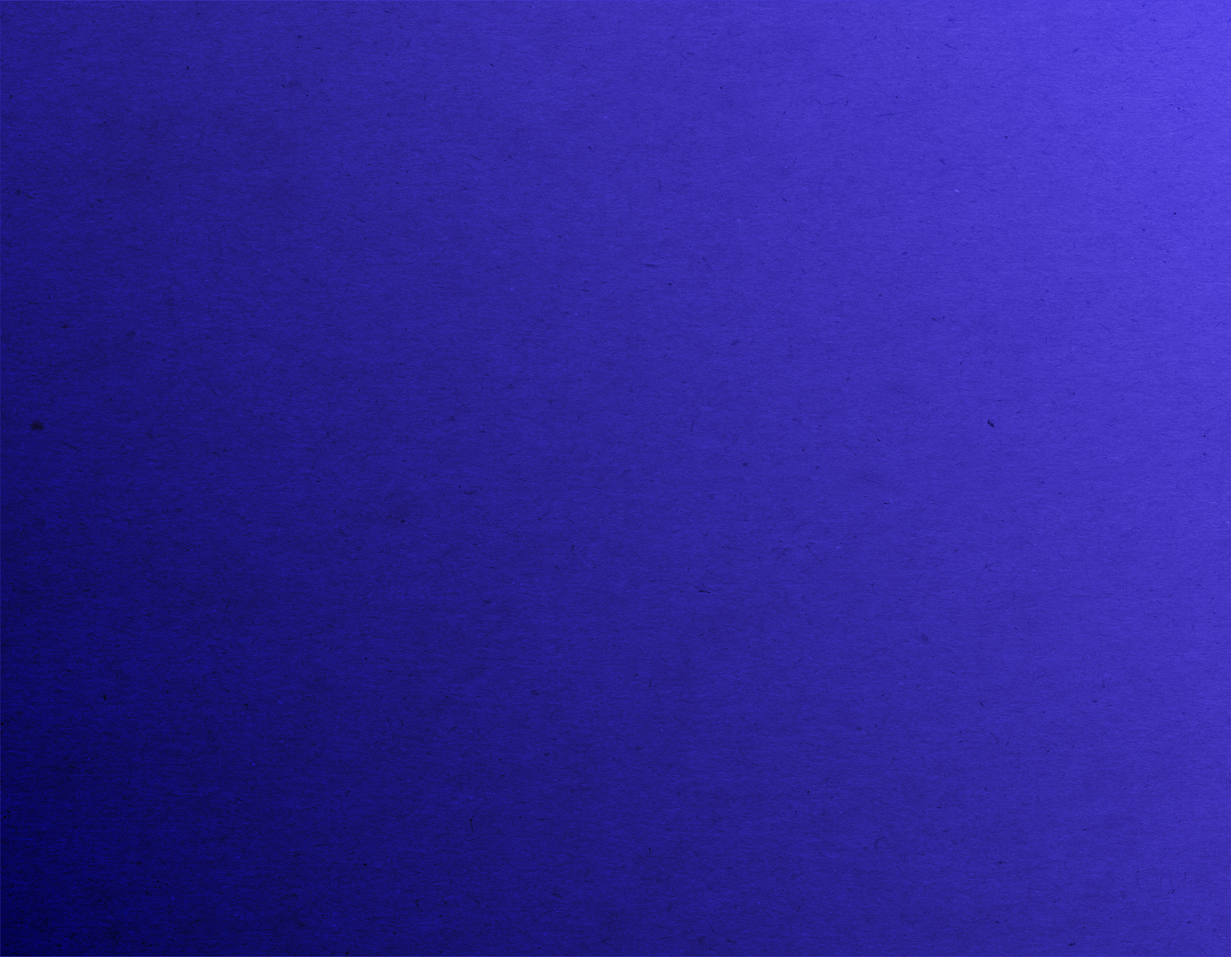
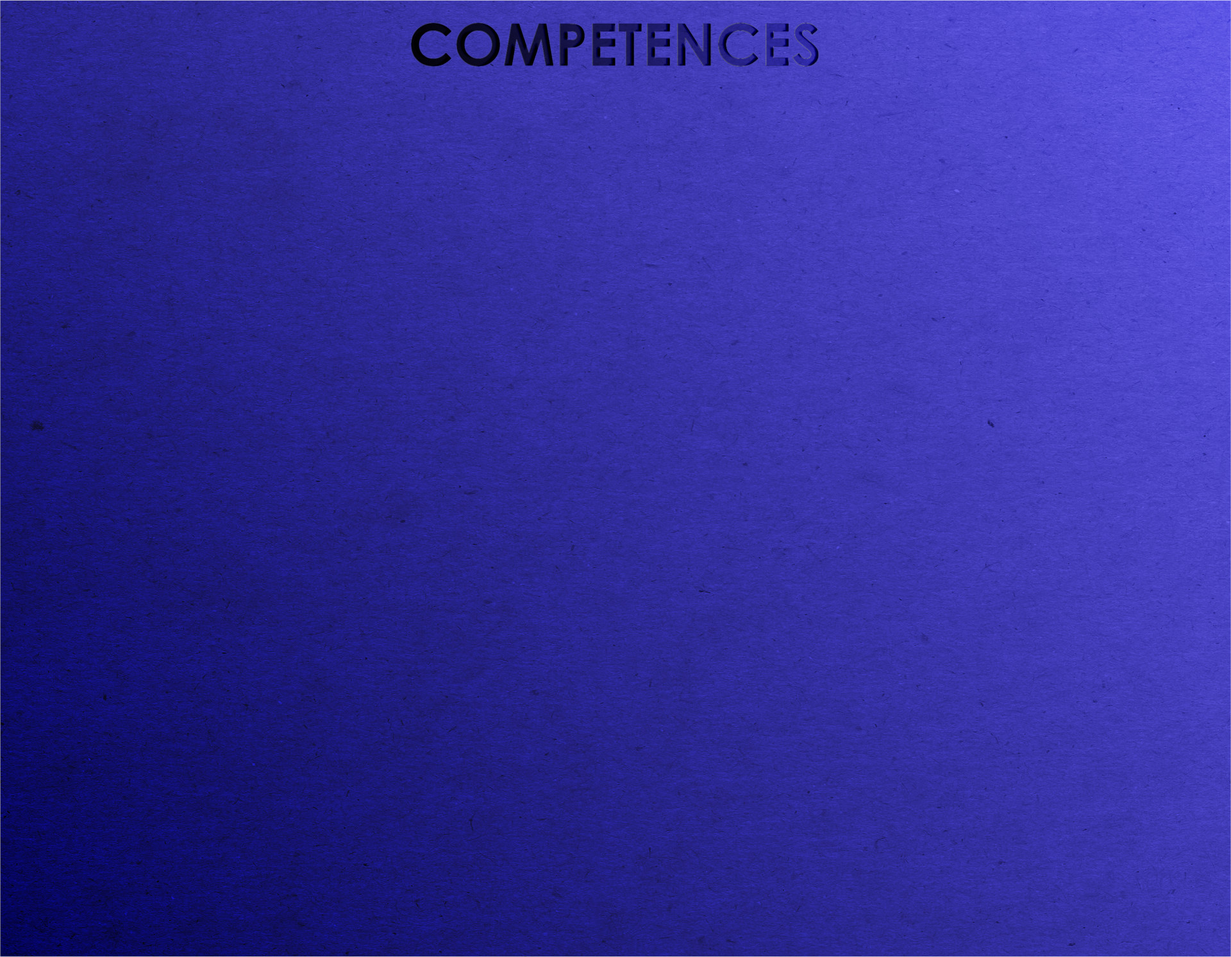
ajustement de la partie compétences ; ajout des vrais vidéos dans la partie vidéos

Changed region(s): [[0.3125, 0.0, 0.6875, 0.0925]]

diff --git a/index.html b/index.html
@@ -59,51 +59,52 @@
   </section>
 
   <section class="bloc" id="quisuisje">
-    <div id="container1">
-      <div>
-        <h2>Audiovisuel</h2>
-        <p>
-          Passionné par la vidéo depuis jeune, j’ai toujours aimé réaliser de petites vidéos pour moi ou
-          même pour des associations. Le DUT MMI m’a permis d’acquérir davantage de
-          connaissances et de technique dans ce milieu. La prise de vidéos, la prise de son et le
-          montage sont des domaines que je pratique. Avec le logiciel Sony Vegas Pro puis Première
-          Pro j’ai pu réaliser différents projets comme des teaser, reportages ainsi que des courts
-          métrages.
-        </p>
+    <div id="mainContainer">
+      <div id="container1">
+        <div>
+          <h2>Audiovisuel</h2>
+          <p>
+            Passionné par la vidéo depuis jeune, j’ai toujours aimé réaliser de petites vidéos pour moi ou
+            même pour des associations. Le DUT MMI m’a permis d’acquérir davantage de
+            connaissances et de technique dans ce milieu. La prise de vidéos, la prise de son et le
+            montage sont des domaines que je pratique. Avec le logiciel Sony Vegas Pro puis Première
+            Pro j’ai pu réaliser différents projets comme des teaser, reportages ainsi que des courts
+            métrages.
+          </p>
+        </div>
+        <div>
+          <h2>Animation</h2>
+          <p>
+            Depuis peu je me suis trouvé une vraie passion pour l’animation. Pour l’instant je pratique que
+            le motion design sur After Effect mais je cherche de plus en plus à approfondir mes compétences et mes connaissances dans cette
+            voie. A l’aide de mes cours et de tutos sur internet je découvre de nouveaux styles et de
+            nouvelles techniques. L’animation me permet d'améliorer mon niveau en graphisme et de
+            donner vie à mes créations.
+          </p>
+        </div>
+        <div>
+          <h2>Web</h2>
+          <p>
+            Grâce à ma formation MMI, j’ai compris l’importance du web aujourd’hui. J’ai appris à comprendre
+            comment il fonctionne et j’ai acquéri des compétences en développement et algorythmie qui me permettent de
+            réaliser des sites internet en HTML, CSS et javascript.
+          </p>
+        </div>
       </div>
-      <div>
-        <h2>Animation</h2>
-        <p>
-          Depuis peu je me suis trouvé une vraie passion pour l’animation. Pour l’instant je pratique que
-          le motion design sur After Effect mais je cherche de plus en plus à approfondir mes compétences et mes connaissances dans cette
-          voie. A l’aide de mes cours et de tutos sur internet je découvre de nouveaux styles et de
-          nouvelles techniques. L’animation me permet d'améliorer mon niveau en graphisme et de
-          donner vie à mes créations.
-        </p>
-      </div>
-      <div>
-        <h2>Web</h2>
-        <p>
-          Grâce à ma formation MMI, j’ai compris l’importance du web aujourd’hui. J’ai appris à comprendre
-          comment il fonctionne et j’ai acquéri des compétences en développement et algorythmie qui me permettent de
-          réaliser des sites internet en HTML, CSS et javascript.
-        </p>
+
+      <div id="container2">
+        <div>
+          <h2>Compétences sociales</h2>
+          <p>
+            Évidemment toutes ces compétences sont inutiles sans un minimum d’amabilité et de
+            savoir-vivre. Je suis une personne assez sociable qui n’hésite pas à aller de l’avant. La
+            pratique du trail, raid et course d’orientation m’ont permis de découvrir une communauté
+            respectueuse, solidaire et motivée. Le sport me permet également de repousser mes limites
+            physiques et mentales et de pouvoir sortir de ma zone de confort.
+          </p>
+        </div>
       </div>
     </div>
-
-    <div id="container2">
-      <div>
-        <h2>Compétences sociales</h2>
-        <p>
-          Évidemment toutes ces compétences sont inutiles sans un minimum d’amabilité et de
-          savoir-vivre. Je suis une personne assez sociable qui n’hésite pas à aller de l’avant. La
-          pratique du trail, raid et course d’orientation m’ont permis de découvrir une communauté
-          respectueuse, solidaire et motivée. Le sport me permet également de repousser mes limites
-          physiques et mentales et de pouvoir sortir de ma zone de confort.
-        </p>
-      </div>
-    </div>
-
   </section>
 
   <section id="photos" class="bloc">
@@ -180,23 +181,23 @@
     <div id="fil_videos">
       <div class="v" id="videoSelected">
         <img src="images_videos/balles_tennis.jpg" alt="">
-        <iframe src="https://www.youtube.com/embed/-EOqxiCMy1U" frameborder="0" allow="accelerometer; autoplay; encrypted-media; gyroscope; picture-in-picture" allowfullscreen></iframe>
+        <iframe src="https://www.youtube.com/embed/cul-lLCQ2p4" frameborder="0" allow="accelerometer; autoplay; encrypted-media; gyroscope; picture-in-picture" allowfullscreen></iframe>
       </div>
       <div class="v">
         <img src="images_videos/cosmos.jpg" alt="">
-        <iframe src="https://www.youtube.com/embed/nZWyz9ylq-U" frameborder="0" allow="accelerometer; autoplay; encrypted-media; gyroscope; picture-in-picture" allowfullscreen></iframe>
+        <iframe src="https://www.youtube.com/embed/mjLTtt_sKWc" frameborder="0" allow="accelerometer; autoplay; encrypted-media; gyroscope; picture-in-picture" allowfullscreen></iframe>
       </div>
       <div class="v">
         <img src="images_videos/lavandes.jpg" alt="">
-        <iframe src="https://www.youtube.com/embed/CF5Re33fDFY" frameborder="0" allow="accelerometer; autoplay; encrypted-media; gyroscope; picture-in-picture" allowfullscreen></iframe>
+        <iframe src="https://www.youtube.com/embed/UBjmAJm9rjA" frameborder="0" allow="accelerometer; autoplay; encrypted-media; gyroscope; picture-in-picture" allowfullscreen></iframe>
       </div>
       <div class="v">
         <img src="images_videos/pont_arche.jpg" alt="">
-        <iframe src="https://www.youtube.com/embed/GuP6zGUsWSs" frameborder="0" allow="accelerometer; autoplay; encrypted-media; gyroscope; picture-in-picture" allowfullscreen></iframe>
+        <iframe src="https://www.youtube.com/embed/Fu1WxdxjMIA" frameborder="0" allow="accelerometer; autoplay; encrypted-media; gyroscope; picture-in-picture" allowfullscreen></iframe>
       </div>
       <div class="v">
         <img src="images_videos/rivieres.jpg" alt="">
-        <iframe src="https://www.youtube.com/embed/yJV7qevsCcw" frameborder="0" allow="accelerometer; autoplay; encrypted-media; gyroscope; picture-in-picture" allowfullscreen></iframe>
+        <iframe src="https://www.youtube.com/embed/-0NitYv2Q9c" frameborder="0" allow="accelerometer; autoplay; encrypted-media; gyroscope; picture-in-picture" allowfullscreen></iframe>
       </div>
 
 

diff --git a/css/quisuisje.css b/css/quisuisje.css
@@ -5,6 +5,11 @@
   //background-color: red;
   flex-direction: column;
   background-image: url("../images/bleu_test2.jpg");
+  width: 100%;
+}
+
+#mainContainer{
+  width: 85%;
 }
 
 #quisuisje p{
@@ -31,9 +36,13 @@
   font-size: 1.7rem;
 }
 
+#container1, #container2{
+  //background-color: rgba(0, 0, 0, 0.45);
+  width: 100%;
+}
+
 #container1{
   height: 65%;
-  width: 85%;
   display: flex;
   align-content: center;
   justify-content: center;
@@ -47,7 +56,6 @@
 }
 
 #container2{
-  width: 85%;
   height: 35%;
   display: flex;
 }

diff --git a/css/videos.css b/css/videos.css
@@ -1,6 +1,7 @@
 #videos{
   display: flex;
-  background-color: cyan;
+  //background-color: cyan;
+  background-image: url("../images/videos_test.jpg");
 }
 
 #currentVideo{
@@ -21,7 +22,8 @@
 }
 
 #fil_videos{
-  background-color: green;
+  margin-right: 1rem;
+  background-color: rgba(0, 0, 0, 0.5);
   max-width: 35%;
   width: 10%;
   height: 100%;
